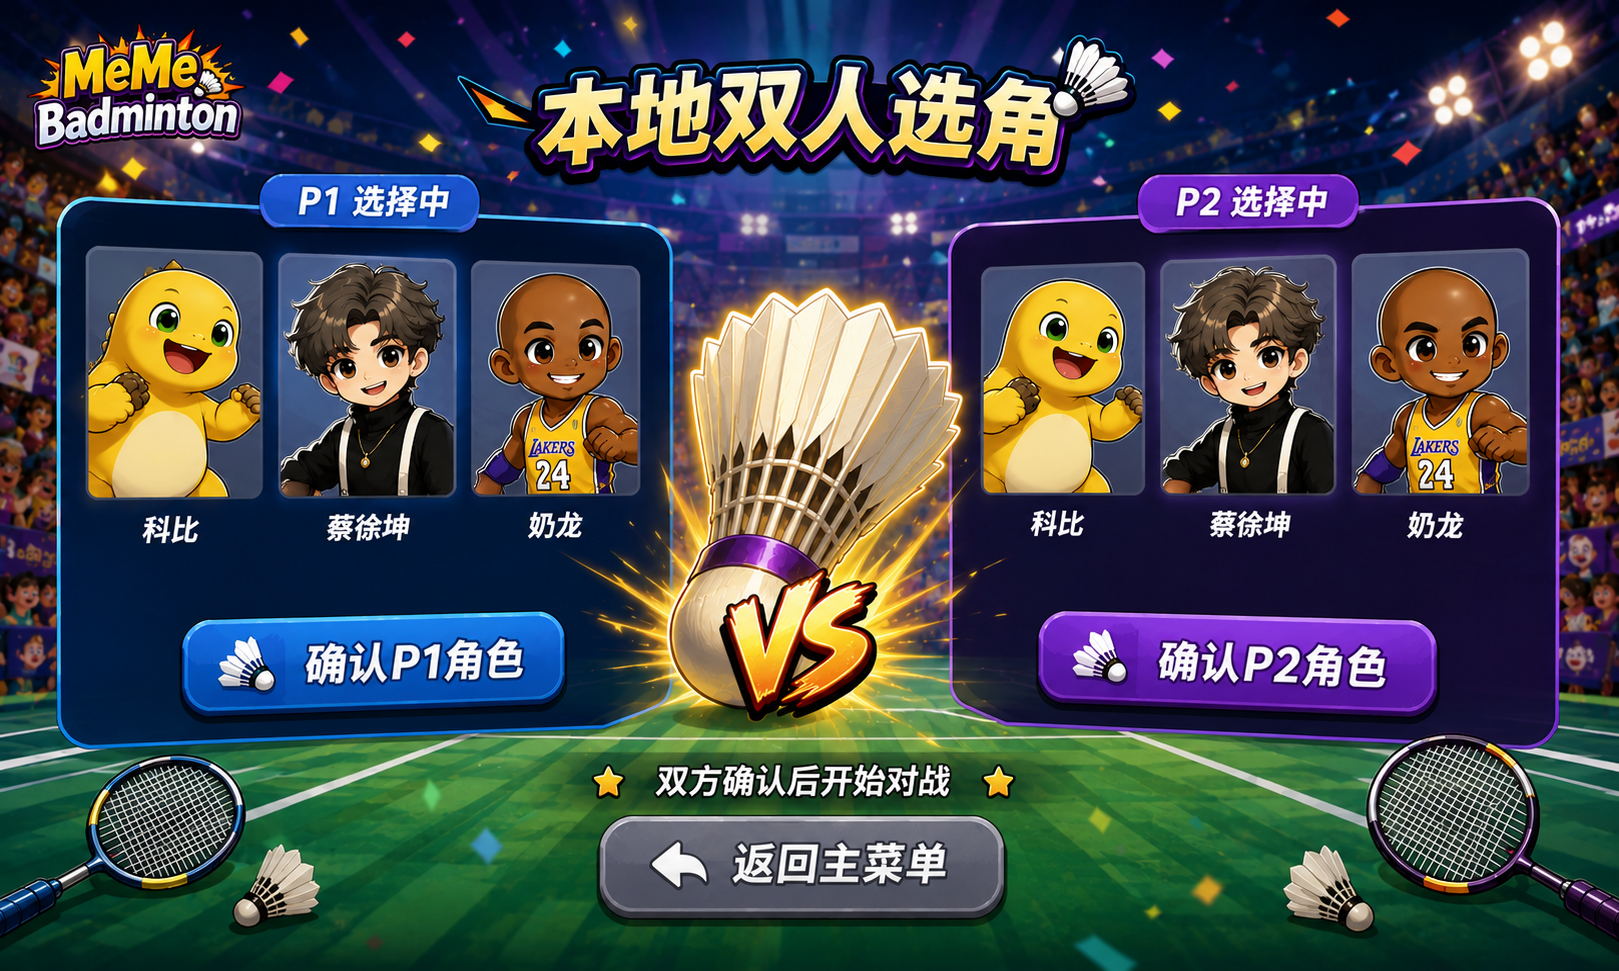
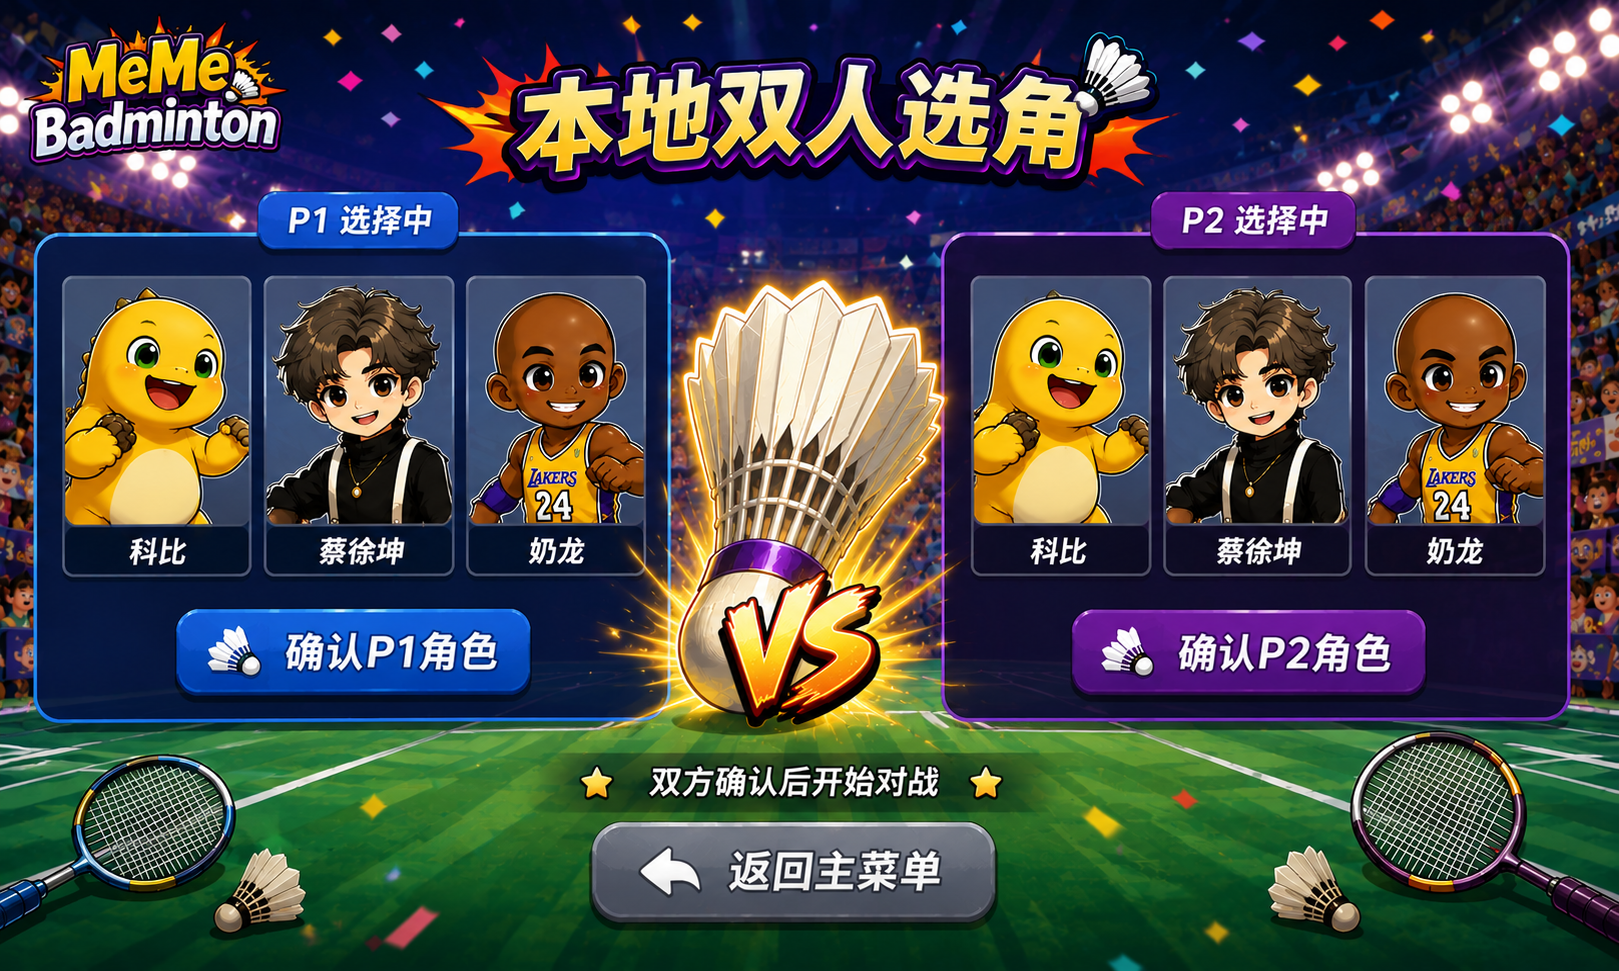
fix bug

diff --git a/assets/scripts/core/GameManager.ts b/assets/scripts/core/GameManager.ts
@@ -70,6 +70,13 @@ interface SkillMeterHudRefs {
     color: Color;
 }
 
+interface LocalCharacterCardLayout {
+    x: number;
+    y: number;
+    width: number;
+    height: number;
+}
+
 @ccclass('GameManager')
 export class GameManager extends Component {
     @property(Label)
@@ -158,6 +165,18 @@ export class GameManager extends Component {
     private readonly _skillSystem: SkillSystem = new SkillSystem();
     private readonly _skillExecutor: SkillExecutor = new SkillExecutor();
     private readonly _localCharacterSelect: LocalCharacterSelect = new LocalCharacterSelect('kobe', 'caixukun');
+    private readonly _localCharacterCardLayouts: Record<PlayerId, LocalCharacterCardLayout[]> = {
+        player1: [
+            { x: -516, y: 37, width: 150, height: 240 },
+            { x: -356, y: 37, width: 150, height: 240 },
+            { x: -201, y: 37, width: 150, height: 240 },
+        ],
+        player2: [
+            { x: 204, y: 37, width: 150, height: 240 },
+            { x: 356, y: 37, width: 150, height: 240 },
+            { x: 510, y: 37, width: 150, height: 240 },
+        ],
+    };
     private _selectedCharacters: Record<PlayerId, string> = {
         player1: 'kobe',
         player2: 'caixukun',
@@ -832,14 +851,14 @@ export class GameManager extends Component {
 
     private addLocalCharacterSelectImageScreen(): void {
         this.addImageBackground('LocalCharacterSelectBackground', this.localCharacterSelectSpriteFrame, 1280, 768);
-        this.addLocalCharacterHitAreas('player1', [-500, -326, -176]);
-        this.addLocalCharacterHitAreas('player2', [213, 376, 499]);
+        this.addLocalCharacterHitAreas('player1');
+        this.addLocalCharacterHitAreas('player2');
         this.addHitAreaButton('ConfirmP1Button', -326, -146, 310, 82, () => this.confirmCharacter('player1'));
         this.addHitAreaButton('ConfirmP2Button', 337, -146, 310, 82, () => this.confirmCharacter('player2'));
         this.addHitAreaButton('BackToMainMenuButton', -6, -290, 330, 82, () => this.enterMainMenu());
 
-        this.addSelectedCharacterFrame('player1', [-500, -326, -176], new Color(64, 180, 255, 255));
-        this.addSelectedCharacterFrame('player2', [213, 376, 499], new Color(205, 92, 255, 255));
+        this.addSelectedCharacterFrame('player1', new Color(64, 180, 255, 255));
+        this.addSelectedCharacterFrame('player2', new Color(205, 92, 255, 255));
 
         if (this._localCharacterSelect.isConfirmed('player1')) {
             this.addLabel('P1 已确认', -318, 210, 26, 220);
@@ -849,29 +868,37 @@ export class GameManager extends Component {
         }
     }
 
-    private addLocalCharacterHitAreas(playerId: PlayerId, cardXs: number[]): void {
+    private addLocalCharacterHitAreas(playerId: PlayerId): void {
+        const cardLayouts = this._localCharacterCardLayouts[playerId];
         this._characters.forEach((character, index) => {
-            this.addHitAreaButton(`${playerId}${character.characterId}Card`, cardXs[index], 86, 145, 205, () =>
-                this.selectCharacter(playerId, character.characterId),
+            const layout = cardLayouts[index];
+            this.addHitAreaButton(
+                `${playerId}${character.characterId}Card`,
+                layout.x,
+                layout.y,
+                layout.width,
+                layout.height,
+                () => this.selectCharacter(playerId, character.characterId),
             );
         });
     }
 
-    private addSelectedCharacterFrame(playerId: PlayerId, cardXs: number[], color: Color): void {
+    private addSelectedCharacterFrame(playerId: PlayerId, color: Color): void {
         const selectedCharacterId = this._localCharacterSelect.getSelectedCharacter(playerId);
         const selectedIndex = this._characters.findIndex((character) => character.characterId === selectedCharacterId);
         if (selectedIndex < 0) {
             return;
         }
 
+        const layout = this._localCharacterCardLayouts[playerId][selectedIndex];
         const frameNode = new Node(`${playerId}SelectedFrame`);
         this._flowRoot.addChild(frameNode);
-        frameNode.setPosition(cardXs[selectedIndex], 86, 0);
-        frameNode.addComponent(UITransform).setContentSize(145, 205);
+        frameNode.setPosition(layout.x, layout.y, 0);
+        frameNode.addComponent(UITransform).setContentSize(layout.width, layout.height);
         const graphics = frameNode.addComponent(Graphics);
         graphics.strokeColor = color;
         graphics.lineWidth = 6;
-        graphics.roundRect(-72.5, -102.5, 145, 205, 8);
+        graphics.roundRect(-layout.width / 2, -layout.height / 2, layout.width, layout.height, 8);
         graphics.stroke();
     }
 
